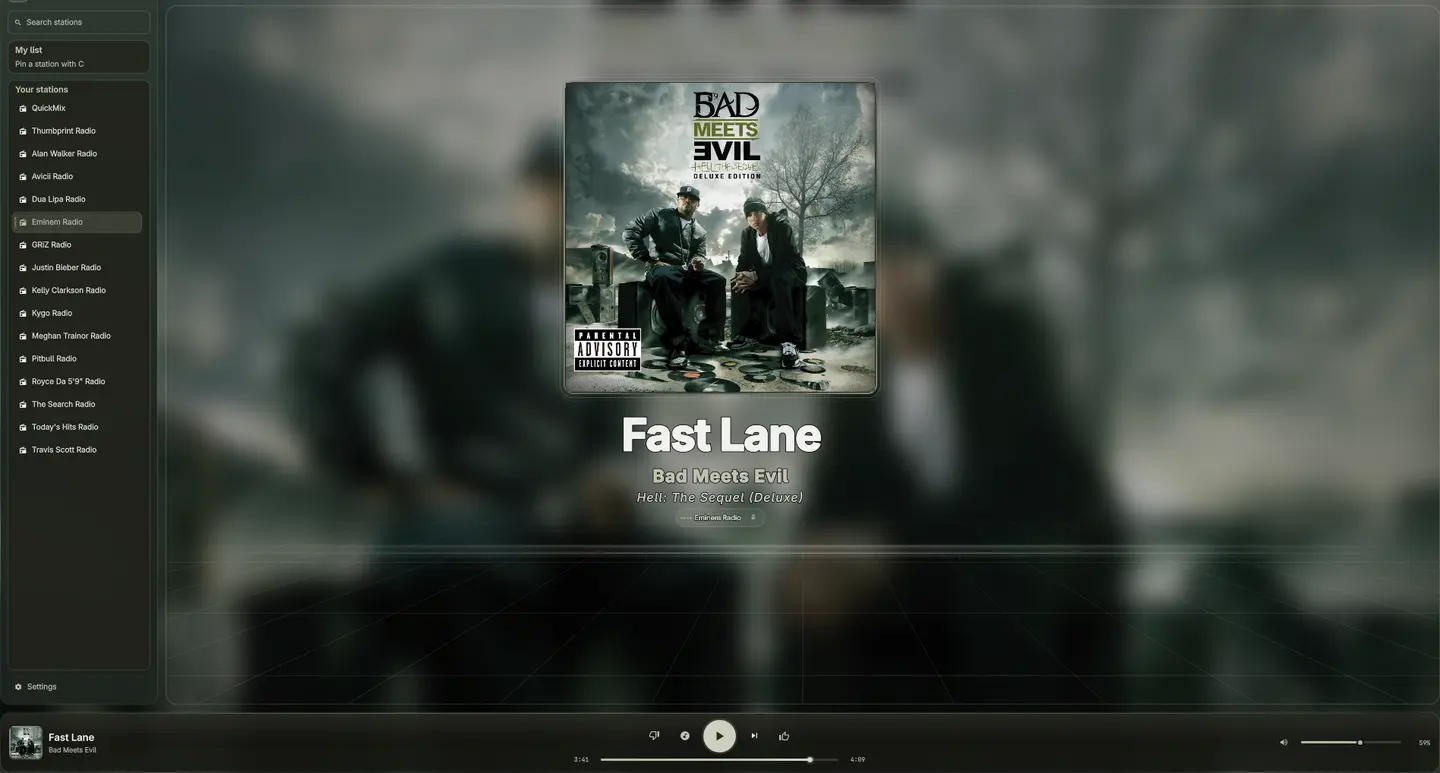
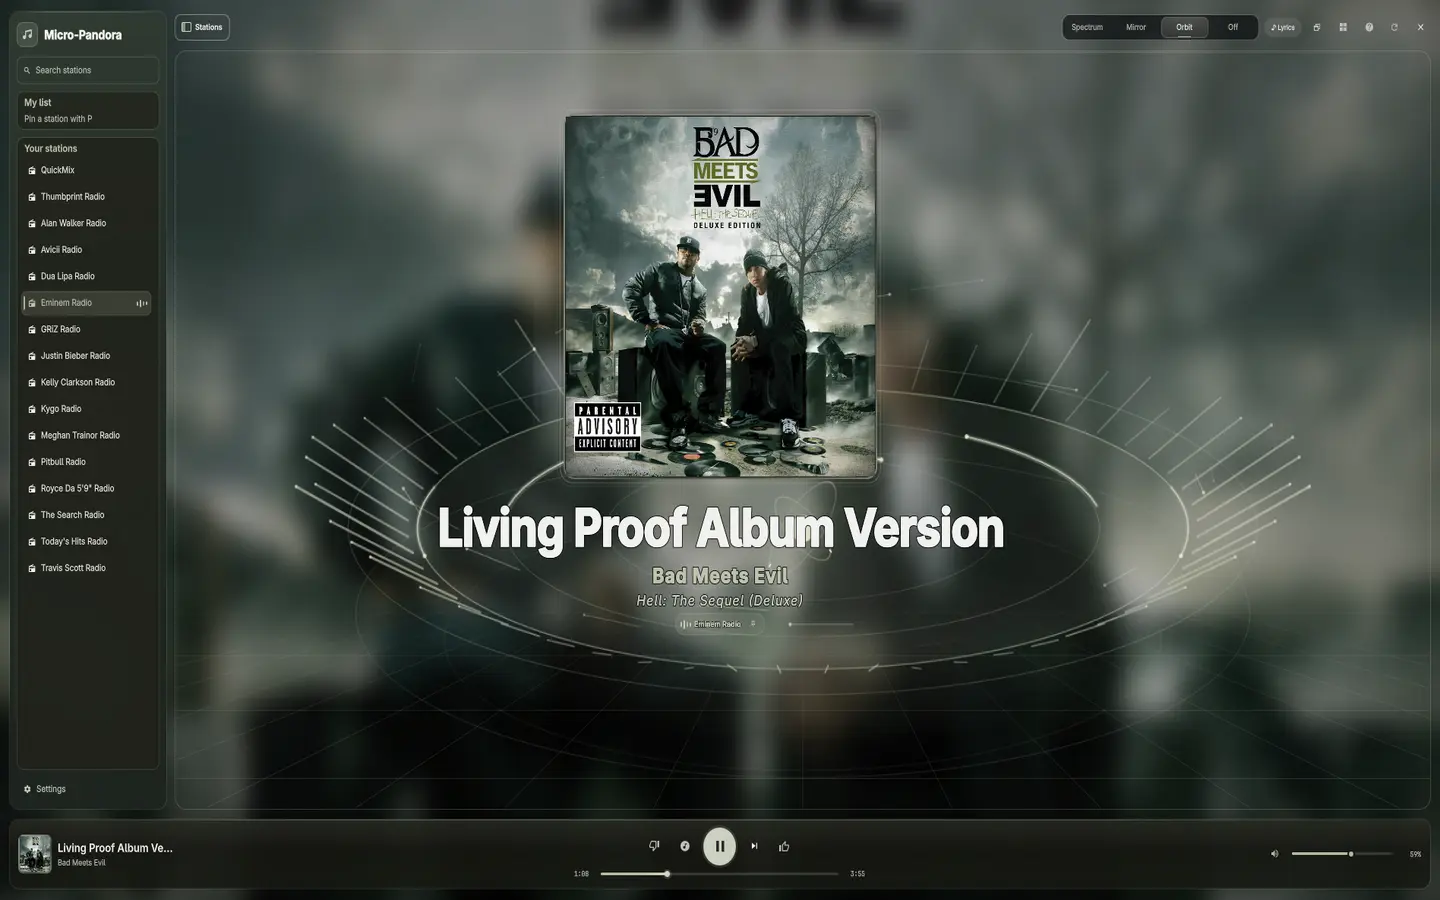
Update all screenshots with verified live in-app captures of v0.7.1

diff --git a/qml-0.7.1/Panel.qml b/qml-0.7.1/Panel.qml
@@ -24,6 +24,7 @@ Item {
   property bool shortcutHelpOpen: false
   property bool lyricsOn: false
   property bool localSidebarCollapsed: false
+  Connections { target: root.service; function onVisualizerModeChanged() { if (root.service && root.service.visualizerMode !== undefined) visualizer.selectMode(root.service.visualizerMode) } }
   readonly property bool sidebarCollapsed: service && service.stationSidebarCollapsed !== undefined
     ? service.stationSidebarCollapsed : localSidebarCollapsed
   // True while the window is being moved to another monitor. Quickshell

diff --git a/qml-0.7.1/Service.qml b/qml-0.7.1/Service.qml
@@ -496,6 +496,7 @@ Item {
       root.openFullPlayer()
       return "ok"
     }
+    function setVisualizer(mode: int): string { root.visualizerMode = mode; return "ok" }
     function openSettings(): string {
       root.openFullPlayer("", "setup")
       return "ok"
